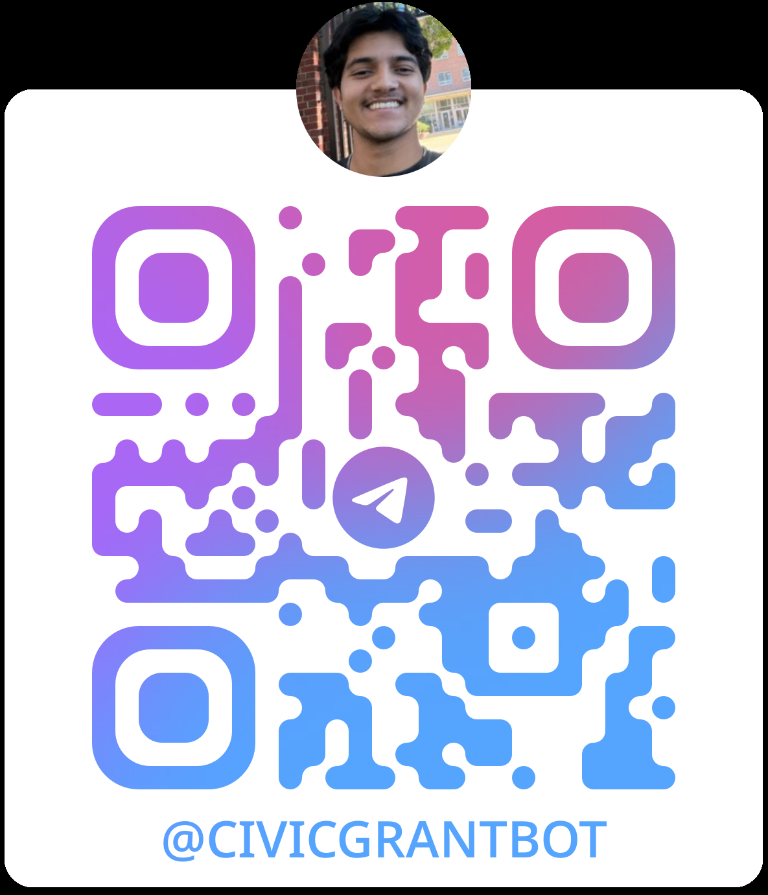
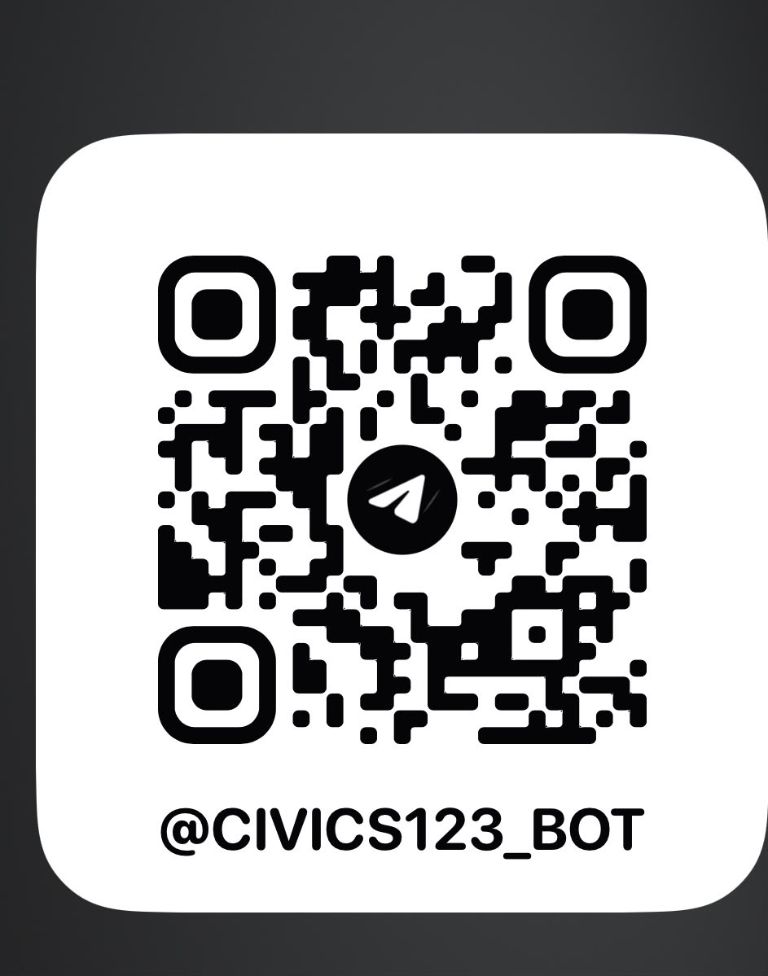
Update Telegram demo links and QR code

diff --git a/src/pages/Demo.tsx b/src/pages/Demo.tsx
@@ -23,22 +23,23 @@ export default function Demo() {
               grant details back in Telegram.
             </p>
 
-            {botUrl && (
-              <a className={styles.action} href={botUrl} target="_blank" rel="noopener noreferrer">
-                Open CivicText on Telegram <span aria-hidden="true">&rarr;</span>
-              </a>
-            )}
+            <a className={styles.action} href={botUrl} target="_blank" rel="noopener noreferrer">
+              Open CivicText on Telegram <span aria-hidden="true">&rarr;</span>
+            </a>
           </div>
 
           <figure className={styles.qrCard}>
             <img
               className={styles.qrImage}
               src="/civictext-telegram-qr.png"
-              alt="QR code for opening the Civic Grant Bot on Telegram"
+              alt="QR code for opening CivicText's @CivicS123_bot on Telegram"
             />
             <figcaption className={styles.qrCaption}>
               <strong>Scan to open the bot</strong>
-              <span>Find us on Telegram at @CIVICGRANTBOT</span>
+              <span>Find us on Telegram at @CivicS123_bot</span>
+              <a className={styles.qrLink} href={botUrl} target="_blank" rel="noopener noreferrer">
+                Or open the bot on Telegram <span aria-hidden="true">&rarr;</span>
+              </a>
             </figcaption>
           </figure>
         </div>

diff --git a/src/components/Hero.tsx b/src/components/Hero.tsx
@@ -1,5 +1,4 @@
 import { Link } from 'react-router-dom';
-import { getTelegramBotUrl } from '../lib/platform';
 import styles from './Hero.module.css';
 
 const pillIcon = {
@@ -47,8 +46,6 @@ const tags = [
 ];
 
 export default function Hero() {
-  const botUrl = getTelegramBotUrl();
-
   return (
     <section className={styles.hero}>
       <div className={`container ${styles.grid}`}>
@@ -64,15 +61,9 @@ export default function Hero() {
           </p>
 
           <div className={styles.actions}>
-            {botUrl ? (
-              <a className={styles.primary} href={botUrl} target="_blank" rel="noopener noreferrer">
-                Open Telegram bot
-              </a>
-            ) : (
-              <Link to="/demo" className={styles.primary}>
-                Open Telegram bot
-              </Link>
-            )}
+            <Link to="/demo" className={styles.primary}>
+              Try the Demo
+            </Link>
             <Link to="/grants" className={styles.secondary}>
               Browse sample listings <span aria-hidden="true">&rarr;</span>
             </Link>

diff --git a/src/components/Navbar.tsx b/src/components/Navbar.tsx
@@ -51,15 +51,9 @@ export default function Navbar() {
               {l.label}
             </a>
           ))}
-          {botUrl ? (
-            <a className={styles.cta} href={botUrl} target="_blank" rel="noopener noreferrer" onClick={close}>
-              Open Telegram
-            </a>
-          ) : (
-            <Link to="/demo" className={styles.cta} onClick={close}>
-              Open Telegram
-            </Link>
-          )}
+          <a className={styles.cta} href={botUrl} target="_blank" rel="noopener noreferrer" onClick={close}>
+            Open Telegram
+          </a>
         </nav>
       </div>
     </header>

diff --git a/src/lib/platform.ts b/src/lib/platform.ts
@@ -1,11 +1,5 @@
-const configuredUsername = import.meta.env.VITE_TELEGRAM_BOT_USERNAME?.trim().replace(/^@/, '');
-
-export function getTelegramBotUrl(): string | null {
-  if (!configuredUsername || !/^[A-Za-z0-9_]{5,32}$/.test(configuredUsername)) {
-    return null;
-  }
-
-  return `https://t.me/${configuredUsername}`;
+export function getTelegramBotUrl(): string {
+  return 'https://t.me/CivicS123_bot';
 }
 
 export const backendUrl =

diff --git a/src/pages/Demo.module.css b/src/pages/Demo.module.css
@@ -104,6 +104,18 @@
   font-size: 0.82rem;
 }
 
+.qrLink {
+  justify-self: center;
+  margin-top: 8px;
+  color: var(--terracotta);
+  font-size: 0.9rem;
+  font-weight: 600;
+}
+
+.qrLink:hover {
+  text-decoration: underline;
+}
+
 .details {
   display: grid;
   grid-template-columns: repeat(2, minmax(0, 1fr));

diff --git a/src/vite-env.d.ts b/src/vite-env.d.ts
@@ -3,7 +3,6 @@
 interface ImportMetaEnv {
   readonly DEV: boolean;
   readonly VITE_BACKEND_URL?: string;
-  readonly VITE_TELEGRAM_BOT_USERNAME?: string;
 }
 
 interface ImportMeta {

diff --git a/README.md b/README.md
@@ -10,7 +10,7 @@ cp .env.example .env
 npm run dev
 ```
 
-The website runs at `http://localhost:5173`. Set `VITE_TELEGRAM_BOT_USERNAME` in the root `.env` to the bot username without `@` to enable Telegram links. `VITE_BACKEND_URL` defaults to `http://127.0.0.1:8000` for the local request monitor. Restart Vite after changing configuration.
+The website runs at `http://localhost:5173`. Telegram links point to [@CivicS123_bot](https://t.me/CivicS123_bot). `VITE_BACKEND_URL` defaults to `http://127.0.0.1:8000` for the local request monitor. Restart Vite after changing configuration.
 
 Run the backend separately using [backend/README.md](backend/README.md). Backend secrets belong in `backend/.env`.
 
@@ -61,7 +61,7 @@ npm run build
 
 The production website is generated in `dist/`. Static hosting requires an `index.html` fallback for application routes. The root `vercel.json` declares separate Vite and FastAPI services with routing for `/api/*` and the website.
 
-Set `VITE_TELEGRAM_BOT_USERNAME` for website bot links. Backend deployment requires `TELEGRAM_TOKEN`, LLM configuration, database ingestion, and indexing. Fonts load from Google Fonts; the hero image loads from Unsplash.
+Backend deployment requires `TELEGRAM_TOKEN`, LLM configuration, database ingestion, and indexing. Fonts load from Google Fonts; the hero image loads from Unsplash.
 
 ## License
 
@@ -69,7 +69,7 @@ The root [vercel.json](./vercel.json) configures Vercel as a multi-service
 project: the Vite app is served by the `app` service, `/api/*` requests are
 forwarded to the FastAPI `backend` service, and all other paths go to the app.
 Configure the backend's `TELEGRAM_TOKEN` and LLM settings as Vercel environment
-variables. Set `VITE_TELEGRAM_BOT_USERNAME` for the website's Telegram links.
+variables. Website Telegram links point to [@CivicS123_bot](https://t.me/CivicS123_bot).
 
 The Grants page uses bundled sample listings and does not require a hosted
 database or backend connection.
